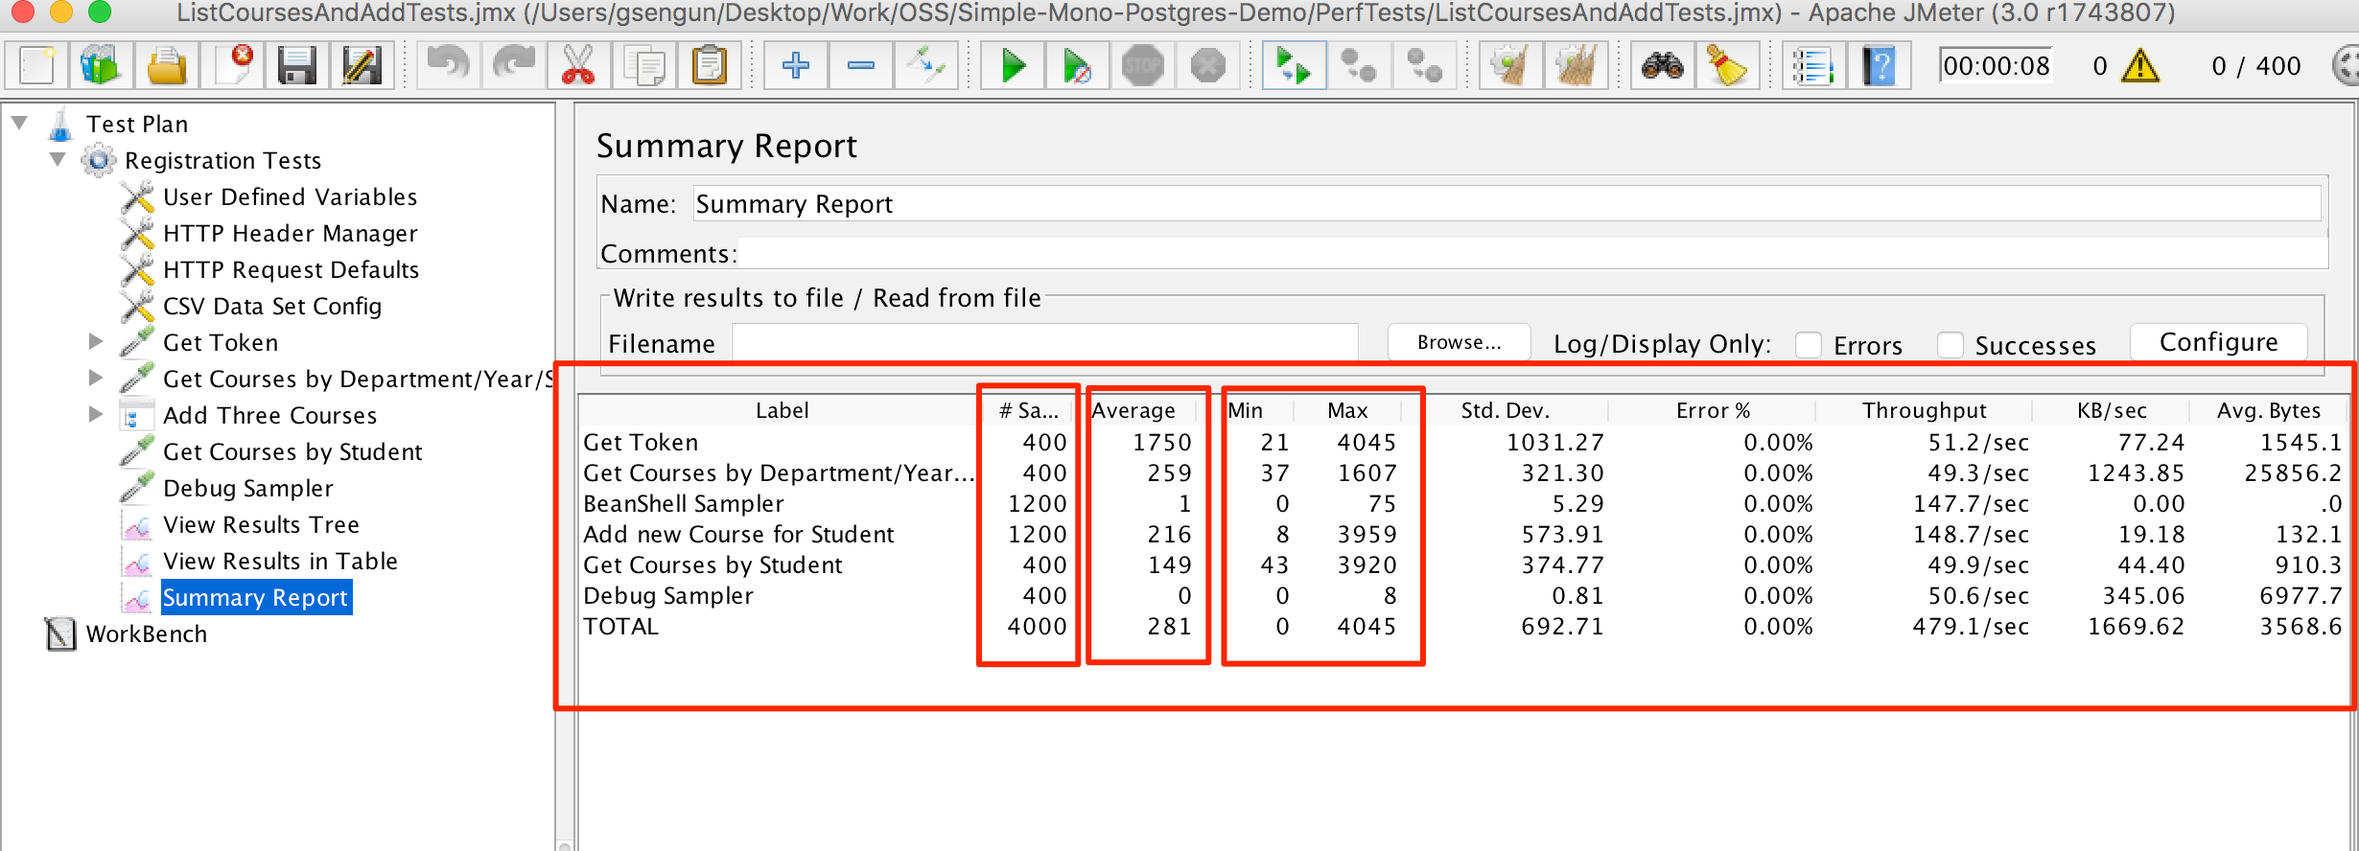
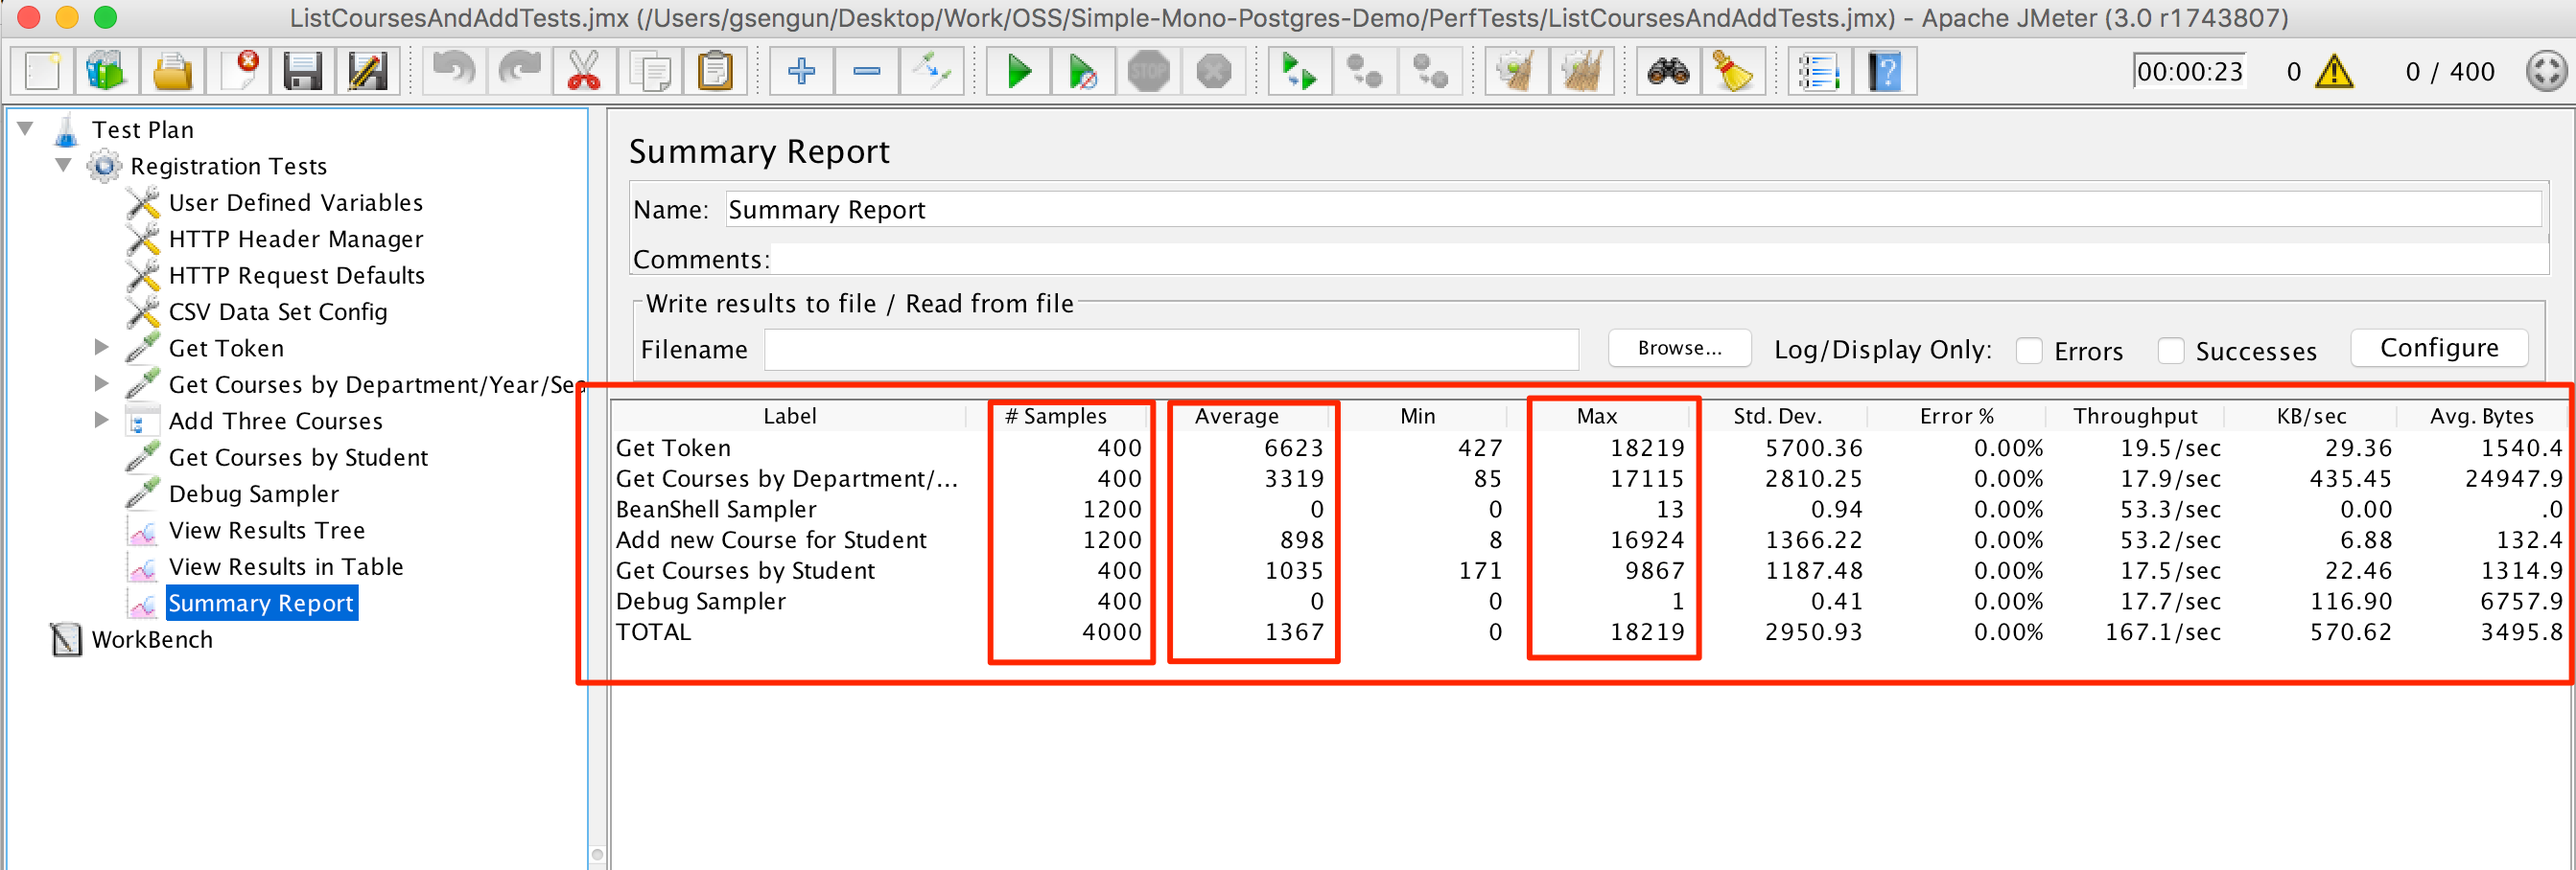
Complete the fourth JMeter blog, will review and publish.

Changed region(s): [[0.0, 0.0, 1.0, 1.0]]

diff --git a/_posts/2016-08-15-jmeter-performans-testi-hazirlama.md b/_posts/2016-08-15-jmeter-performans-testi-hazirlama.md
@@ -29,7 +29,6 @@ Bu blog'da JMeter'ı bir Performans Testi aracı olarak kullanacağız. Kurgulay
 * JMeter'da ilgili kullanım senaryolarını tek bir kullanıcı için koşturan bir Test Plan oluşturacağız.
 * Input dosyası vererek oluşturduğumuz sistemi birçok kullanıcı için paralel olarak koşturacak ve test sonuçlarını inceleyeceğiz.
 * Sistemimizde bir iyileştirme yaparak testi tekrar koşturacağız ve test sonuçlarını karşılaştırmalı olarak göreceğiz.
-* Yüksek sayıda kullanıcıyı simüle etmek için JMeter Test Planlarını bulut (Cloud) üzerinde birçok makinada koşturmaya olanak tanıyan [Blazemeter](https://www.blazemeter.com)'a kısa bir bakış atarak bu blog'u noktalayacağız.
 
 ### Ön Koşullar
 
@@ -231,12 +230,78 @@ Ve en heyecanlı bölüme geldik, birazdan ilk performans testimizi çalıştır
 
     Gördüğünüz gibi 400 kullanıcı için koşan testte kullanıcılar aşağıdaki gibi metrikler üretmiştir.
     
-        `/Token` çağrısını Avg `1750 ms` ve Max `4045 ms`'de
-        `/api/Registration/ListCoursesByDepartmentYearSeason` çağrısını Avg `259 ms` ve Max `1607 ms`'de
-        `/api/Registration/AddCourseForStudent` çağrısını Avg `216 ms` ve Max `3959 ms`'de
-        `/api/Registration/coursesbystudent` çağrısını Avg `149 ms` ve Max `3920 ms`'de
+    * `/Token` çağrısı, Avg `6623 ms` ve Max `18219 ms`'de
+    * `/api/Registration/ListCoursesByDepartmentYearSeason` çağrısı, Avg `3319 ms` ve Max `17115 ms`'de
+    * `/api/Registration/AddCourseForStudent` çağrısı, Avg `898 ms` ve Max `16924 ms`'de
+    * `/api/Registration/CoursesByStudent` çağrısı, Avg `1035 ms` ve Max `9867 ms`'de
 
-    Aslında sistemimiz 400 eş zamanlı kullanıcıya göre fena performans göstermedi. Kullanıcılar kabul edilebilir (`5000 ms`) sınırlar içerisinde isteklerine cevap alabildiler fakat 400 kullanıcı 4000 olduğunda Response zamanları da aynı oranda artarsa performans istenen sınırlar içerisinde kalmayacaktır. Şimdi iyileştirebildiğimiz kadar performansı iyileştirmeye çalışalım.  
+    Aslında sistemimiz 400 eş zamanlı kullanıcıya göre fena performans göstermedi. Kullanıcılar kabul edilebilir (`20000 ms`) sınırlar içerisinde isteklerine cevap alabildiler fakat 400 kullanıcı 4000 olduğunda Response zamanları da aynı oranda artarsa performans istenen sınırlar içerisinde kalmayacaktır. Şimdi bir iyileştirme denemesi yapalım ve testi tekrarlayalım.
 
 ### İyileştirme Denemesi ve Yeni Yük Testi
 
+Registration sistemimizin performansı da birçok başka sistem gibi veri tabanı performansı ile paraleldir. Bu veya benzer bir sistemin performansını en iyi noktaya çıkarmak (boost) etmek için neler yapabileceğimizi .NET özelinde başka blog post'larda detaylı olarak ele alacağız. Burada konuyu dağıtmamak için detaylı olarak performansı en iyileştirmeye çalışmayacağız sadece bir fark yaratmaya çalışacağız.
+
+`/api/Registration/CoursesByStudent` çağrısının koşturulması sırasında aşağıdaki SQL dosyasının çalıştırılmaktadır.
+
+    SELECT 
+        c.course_id AS CourseId,
+        c.credit AS Credit,
+        c.department AS Department,
+        c.instructor AS Instructor, 
+        tc.season 
+    FROM taken_courses tc
+    INNER JOIN courses c ON c.course_id = tc.course_id
+    INNER JOIN students s ON tc.student_id = s.student_id
+    INNER JOIN asp_net_users usr ON usr.id = s.user_id
+    WHERE tc.student_id = @studentId AND usr.id = @userId
+
+Bu SQL (`@student_id` ve `@userId`) örnek dataları sağlandığında PostgreSQL'in Explain aracı aşağıdaki gibi bir çalıştırma planı sunmaktadır. Bu plandan görülebileceği üzere, Query'nin en fazla kayıtla uğraştığı bölümler `taken_courses` ve `students` tablolarından ilgili bilgileri çektiği bölümlerdir.
+
+{% include image.html url="/resource/img/JMeterPart4/PostgresExecutionPlanBefore.png" description="Postgres Execution Plan Before" %}
+
+Veri tabanını incelediğimizde Query'imizde WHERE Condition'ında kullanılan `taken_courses` tablosunun `student_id` alanı ile `taken_courses` tablosunun `students` tablosu ile JOIN yapmasında kullanılan `students` tablosunun `student_id` kolonunun Index'lenmediğini görürürüz. Aşağıdaki komutlarla veri tabanına aşağıdaki Index'leri eklememiz gerektiğini anlayabiliriz. Tekrar belirtmek istiyorum ki sadece bütünlük olması açısından bu bilgileri burada paylaşıyor ve fazla detay vermiyorum.
+
+    CREATE INDEX taken_courses_student_id_idx ON taken_courses (student_id);
+    CREATE INDEX students_student_id_idx ON students (student_id); 
+
+Index'leri ekledikten sonra PostgreSQL'un Explain aracının gösterdiği çalıştırma planı aşağıdaki gibi olmuştur. Planın baştan başa değiştiğine dikkat ediniz.
+
+{% include image.html url="/resource/img/JMeterPart4/PostgresExecutionPlanAfter.png" description="Postgres Execution Plan After" %}
+
+#### Yük Testinin Tekrarlanması
+
+Daha önce Performans Testlerinde sağlıklı sonuçlar elde edebilmek için değişik testler arasında platform, veri tabanındaki kayıt sayısı, vb farklılıklar bulunmaması gerektiğini söylemiştik. Test sistemimizi sıfırlayarak testi tekrarlayalım. Kullandığımız Docker Compose altyapısı bize bu noktada çok büyük kolaylık sağlamaktadır.
+
+Aşağıdaki adımları takip edebiliriz.
+
+1. Önceki testten kalan Container'ları ve Image'ları temizleyerek işe başlayalım. Projenin ana klasöründe bulunan `Docker` dizinine ulaşarak Terminal'den aşağıdaki komutu verin. Bu komut Docker Compose ile bu proje kapsamında yarattığımız bütün Image, Container ve Volume'ları temizleyecektir. 
+
+        $ docker-compose down -v --rmi local
+
+2. Aşağıdaki komutları vererek sistemi tekrar ayağa kaldıralım.
+
+        $ docker-compose up build
+        $ docker-compose up -d db
+        $ docker-compose up flyway-migrator
+        $ docker-compose up -d app
+
+3. Testi başlatmadan önce performans artışı sağlayacağını düşündüğümüz aşağıdaki Index'leri ekleyelim.
+
+        CREATE INDEX taken_courses_student_id_idx ON taken_courses (student_id);
+        CREATE INDEX students_student_id_idx ON students (student_id); 
+
+3. JMeter'da testi başlatın ve `Summary Report`'taki sonucun ekran çıktısını alarak bir yere `JMeter-Improvement-Try-1-Test` ismi ile kaydedin. Benim bilgisayarımda oluşan çıktı aşağıdaki gibi oldu.
+
+    {% include image.html url="/resource/img/JMeterPart4/ImprovementTryPerfTestResults.png" description="Improvement as a Result of Indexes" %}
+
+    Karşılaştırmayı daha iyi yapabilmek için yaptığımız ilk testin sonucunu aşağıya alalım.
+
+    {% include image.html url="/resource/img/JMeterPart4/FirstPerfTestResults.png" description="Result of first performans Test" %}
+
+    Gördüğünüz gibi iyileştirme yaptığımız SQL Query'sinin dahil olduğu `/api/Registration/CoursesByStudent` yani `Get Courses By Student` methodunun ortalama süresi `1035 ms`'den `432 ms`'ye düştü. Bunun yanında ilk bakışta ilginç gelebilecek şekilde iyileştirme yapmadığımız diğer bütün çağrıların ortalama dönüş süreleri `%30` ile `%90` arasında iyileşti. Bu iyileşme, eklediğimiz faydalı Index'lerle normalde daha uzun süren bir Query için veri tabanı kaynaklarının (Connection Pool'daki Connection'lar, vb) kullanımını düşürmemizle gerçekleşti. Veri tabanı kaynaklarından tasarruf etmemiz ortaya çıkan kullanılabilir kaynakların diğer çağrılar tarafından kullanılabilmesini ve sonucunda genel bir performans artışı sağladı.
+
+## Sonuç
+
+Bu blog'da JMeter'ın en fazla kullanıldığı alan olan Performans Testi hazırlama konusuna değindik. JMeter ile basit bir sistem üzerinde performans testi yaptık ve sonrasında küçük bir iyileştirme yaparak performans testini tekrarladık.
+
+Bir sonraki [blog'da](/jmeter-ileri-duzey-ozellikler/) JMeter'ın ileri düzey özelliklerinden ve bazı püf noktalarından bahsedeceğiz.

diff --git a/_posts/2016-07-26-jmeter-pratik-test-hazirlama.md b/_posts/2016-07-26-jmeter-pratik-test-hazirlama.md
@@ -121,4 +121,4 @@ JMX dosyasının son haline Github parolam haricinde [buradan](/resource/file/JM
 
 Bu blog'da JMeter'ın Recording Template'ini kullanarak bir önceki blog'da elle uzun uğraşlar sonucu hazırladığımız karmaşık test senaryosunun aynısını daha pratik bir şekilde tamamlamış olduk.
 
-Bir sonraki [blog'da](/jmeter-performans-testi-hazirlama/) JMeter'ın ileri düzey özelliklerinden ve bazı püf noktalarından bahsedeceğiz.
+Bir sonraki [blog'da](/jmeter-performans-testi-hazirlama/) JMeter'la nasıl performans testi hazırlayabileceğimizi göreceğiz.
